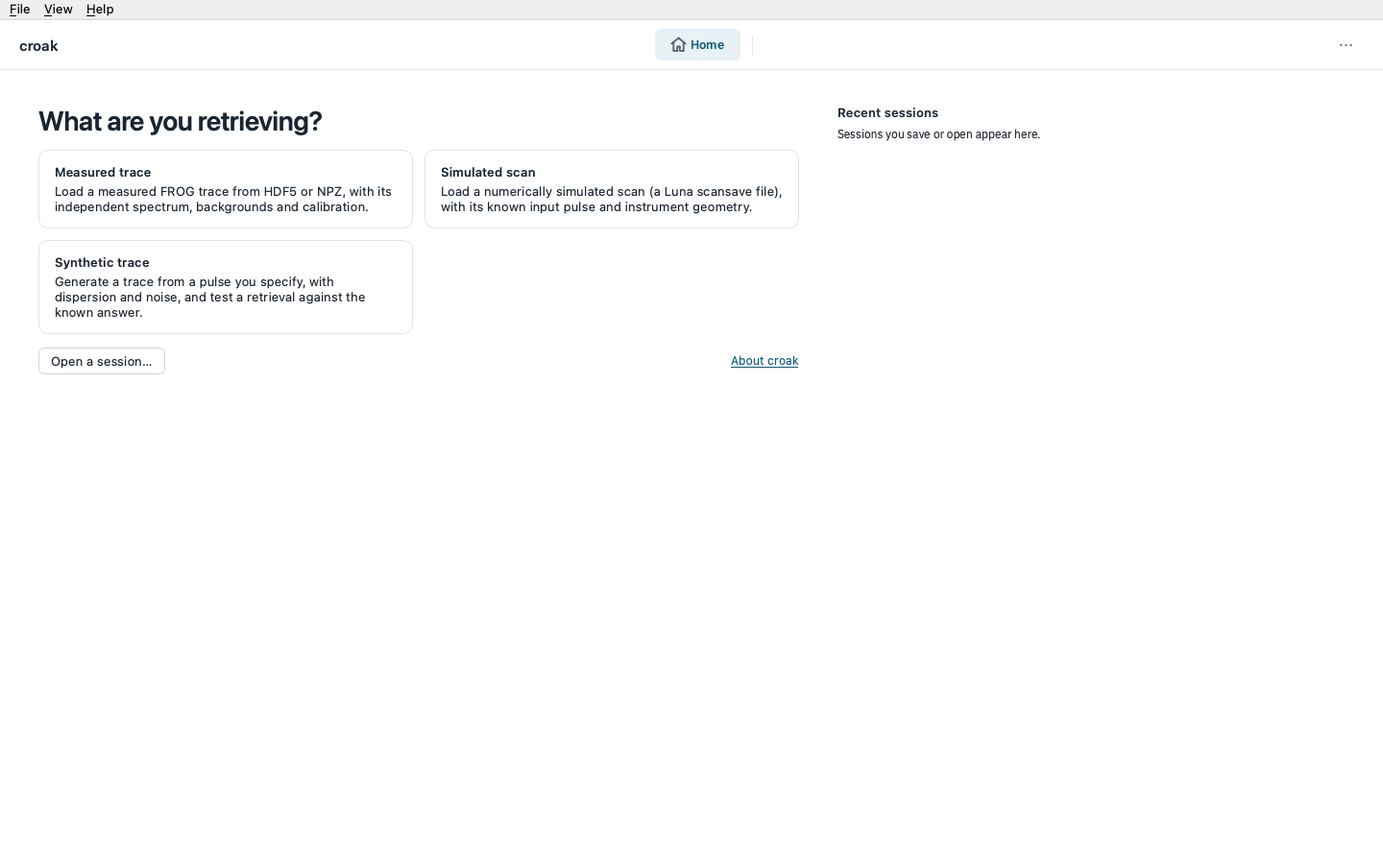
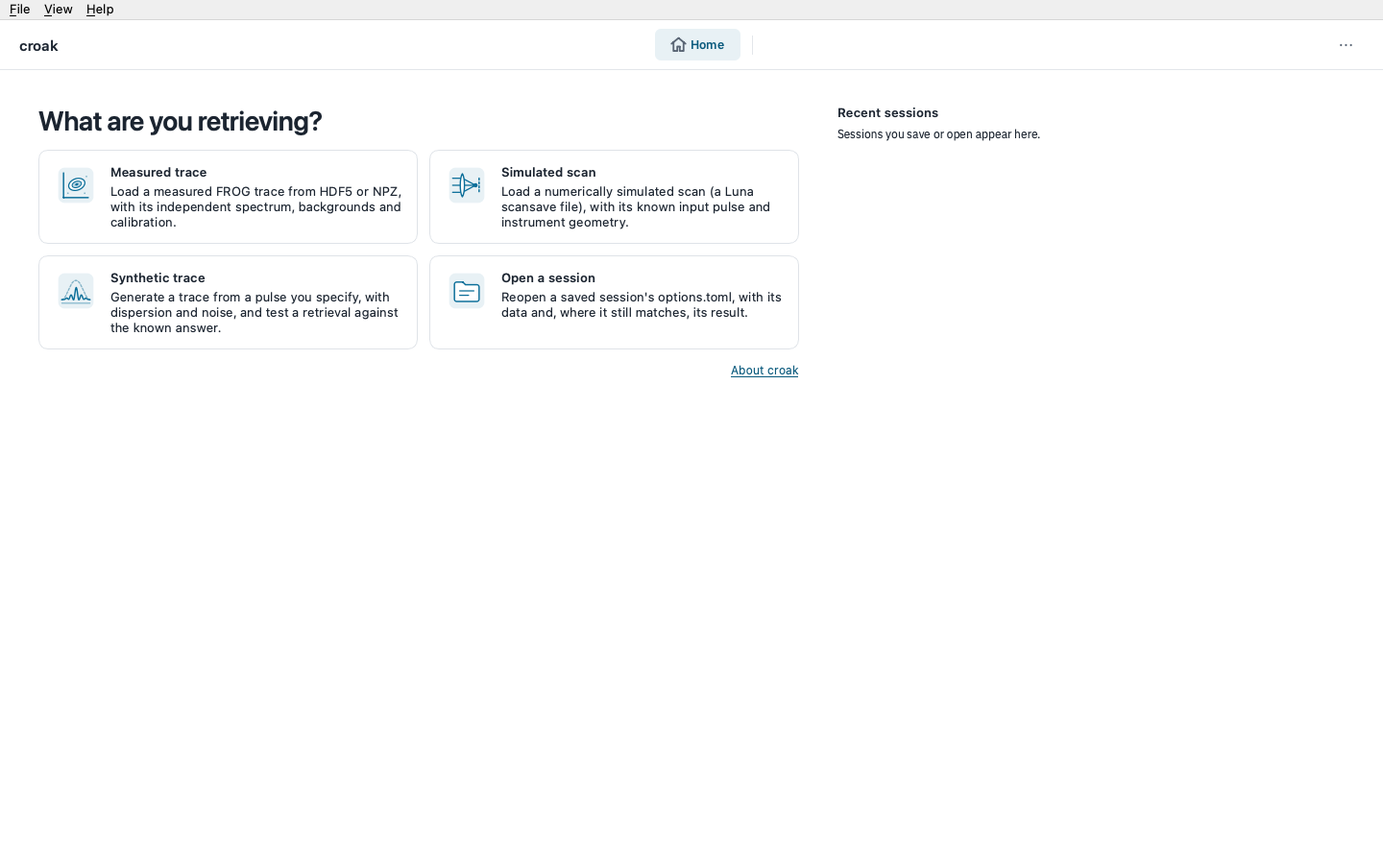
Document the display settings, Retrieve's numbers and Home's tiles

Changed region(s): [[0.0312, 0.1867, 0.5625, 0.4356], [0.3125, 0.3111, 0.5625, 0.3733], [0.5312, 0.4044, 0.5938, 0.4356]]

diff --git a/tools/make_docs_images.py b/tools/make_docs_images.py
@@ -183,8 +183,8 @@ def make_gui_screenshots(folder: Path) -> list[Path]:
     Follows the route a user takes: Home, a synthetic trace (Continue generates
     it and opens Check, Continue again prepares it), then Retrieve. A
     synthetic session is used deliberately — it carries the known ground truth,
-    so the read-out's ``truth`` row is populated and the plots gain the truth
-    overlay.
+    so the truth errors beneath the plots are filled and the plots gain the
+    truth overlay.
     """
     from PySide6.QtWidgets import QApplication
 

diff --git a/docs/howto/gui.md b/docs/howto/gui.md
@@ -47,8 +47,8 @@ rest of the window to its plots; when the window is narrower than 1000 pixels
 the plots move below the settings instead. The
 settings are grouped in sections that fold, and Retrieve's
 advanced sections start folded, so a laptop screen shows the settings you use
-most without scrolling. The numeric read-out beneath Retrieve's plots folds away
-with a click on its header, and returns the height to the plots.
+most without scrolling. Beneath Retrieve's plots, the run's numbers and its
+convergence share one short strip.
 
 Plot text stays at the same size whatever the window size. Exported figures
 (see [Figures for publication](#figures-for-publication)) and the files a
@@ -71,8 +71,8 @@ the macOS menu bar. Two platform details remain:
 
 ## Home
 
-Home is where a session starts. It offers three tiles, one for each kind of
-data:
+Home is where a session starts. Its first three tiles each start a session
+from one kind of data:
 
 - **Measured trace** — load a FROG measurement from HDF5 or NPZ, with its
   independent spectrum, backgrounds and calibration curves.
@@ -81,8 +81,8 @@ data:
 - **Synthetic trace** — generate a trace from a pulse you specify, with
   dispersion and noise, and test a retrieval against the known answer.
 
-Beneath the tiles, **Open a session…** reopens a saved session from its
-`options.toml` (see [Sessions](#sessions)), and **About croak** opens the About
+The fourth tile, **Open a session**, reopens a saved session from its
+`options.toml` (see [Sessions](#sessions)). Beneath the tiles, **About croak** opens the About
 page: the version, links to this manual, the source on GitHub, the package on
 PyPI and the issue tracker, the authors, and the copyright and licences. The **Recent sessions** list on the
 right holds the last six sessions you saved or opened, named by their folder,
@@ -104,7 +104,8 @@ The top bar carries, from left to right:
   its stage buttons are still there, so you can go back to it;
 - the five stage buttons **Data · Check · Prepare · Retrieve · Analyse**. A
   stage that cannot be opened yet is greyed out, and its tooltip says why;
-- the **primary action**, the one button that moves the session on;
+- the **primary action**, the button that moves the session on, and on
+  Retrieve, once a retrieval is done, **Retrieve again** beside it;
 - the **⋯** menu: **Save session…**, **Open a session…**, **Export this page as
   a figure…**, **Show the settings (options.toml)**, **Show as a Python
   script**, **Help for this stage** and **About croak**.
@@ -114,8 +115,9 @@ session… and Export this page as a figure…, with the platform's Open and Sav
 shortcuts and Ctrl+E, ⌘E on macOS), **View** (the settings and the script) and
 **Help** (Help for this stage, F1 on Windows and Linux, ⌘? on macOS, and About
 croak, which macOS moves to the application menu). Passing notices, such as "Saved …" or why a stage cannot open,
-appear in a status bar at the foot of the window, which hides again when there
-is nothing to say.
+appear at the foot of the window, which also holds the
+[display settings](#display-spectral-axis-and-log-range) while a session is
+open, and hides on Home when there is nothing to say.
 
 ### The route
 
@@ -145,7 +147,7 @@ The primary action follows the stage:
 | Data | **Continue**: load or generate the trace and go on to Check |
 | Check | **Continue** to Prepare |
 | Prepare | **Continue** to Retrieve |
-| Retrieve | **Retrieve**, **Stop** while it runs, then **Retrieve again** |
+| Retrieve | **Retrieve**, **Stop** while it runs, then **Analyse**, with **Retrieve again** beside it |
 | Analyse | **Save** (the session); on the Uncertainty page **Estimate**, or **Stop** while it runs |
 
 The action is greyed out until it can be done: Continue on Data, for example,
@@ -172,7 +174,11 @@ Every plot shares the same handling:
 - **Hover** to show a crosshair and a read-out: the position, and the value
   of the map or of each curve under the pointer.
 - **Scroll** to zoom about the pointer, and **drag** to pan.
-- **Double-click** to return to the view the data were first shown with.
+- **Double-click** to return to the view the data were first shown with, and
+  a map to its colour scale.
+- **Drag a colour bar's ends** (or the bar itself) to change that map's colour
+  scale on its own, for example to look further down a logarithmic trace. A
+  signed map keeps its white at zero wherever the scale is dragged.
 
 Plots that share an axis are linked, so zooming one zooms its partners: the
 trace maps on Prepare, and the measured and retrieved traces on Retrieve and
@@ -181,6 +187,33 @@ so no detail is lost where the samples are densest. A logarithmic (dB) trace
 shows the positive part of the signal; negative samples, left by background
 subtraction, show on the linear maps, which run from white to viridis for
 positive values and from white to red for negative ones.
+
+### Display: spectral axis and log range
+
+Two settings at the foot of the window hold for every plot on every page. They
+are remembered between launches and stay until you change them or click
+**Reset**:
+
+- **Spectral axis**: **As computed** keeps each plot on the axis its data were
+  computed on — wavelength for a loaded trace and the generator's previews,
+  frequency for the prepared trace and the retrieval. **Wavelength** or
+  **Frequency** draws every spectral plot, maps and curves alike, against that
+  axis, with ν = c/λ. An intensity is a density per unit of its axis, so it
+  takes the Jacobian too, $I_\nu = I_\lambda\,\lambda^2/c$ and
+  $I_\lambda = I_\nu\,\nu^2/c$: a broad spectrum changes shape, not only
+  position. Phases and filter factors only move. Each plot keeps its peak, and a
+  map is resampled onto an even grid on the new axis, for drawing only
+  ({mod}`croak.plotting.display`).
+- **Log range**: how far below its peak every logarithmic (dB) map reaches,
+  from 5 to 120 dB (30 dB by default). A dragged colour bar overrides it for one
+  map until that map is next drawn.
+
+Exported figures follow both: a plot or page exported from the screen is drawn
+as shown, and croak's own figures of a result (Analyse's Overview, Traces, Pulse
+and Diagnostics pages, and the `retrieval.pdf` a saved session holds) take the
+log range and draw their spectrum on the chosen axis. Their trace maps are
+always against frequency, so with the display on wavelength Analyse's pages
+are exported as they are shown instead.
 
 **Right-click** a plot for its own menu: **Export this plot as a figure…**,
 **Save as an image…** (a PNG of the plot as it is on screen) and **Copy as an
@@ -280,10 +313,8 @@ model; the [marginal guide](marginal_checks.md) states its assumptions. The page
 overlays the predicted marginal, marks the predicted vs measured **centroid**,
 reports the **width-bracket** check, and exposes the spectral **trust region**
 (defaults to 190–1000 nm for a measured trace, or the full loaded range for the
-noise-free simulated/synthetic traces), a **frequency/wavelength** axis toggle
-(default frequency, the space the retrieval works in; the wavelength view
-applies the $1/\lambda^2$ density Jacobian, which shifts a broad marginal towards
-the blue), a **log/linear** marginal toggle (default linear, peak-normalised)
+noise-free simulated/synthetic traces), a **log/linear** marginal toggle (default
+linear, peak-normalised)
 and the **3rd-order** `(λ/µm)^exp` efficiency correction. Its **Auto** button
 picks the exponent whose corrected-marginal centroid matches the prediction
 ({func}`~croak.marginal_checks.auto_third_order_exponent`). The **SHG marginal
@@ -294,6 +325,12 @@ an SHG trace with an independent spectrum, and previews the snap onto the
 prediction live (the correction itself is applied in Prepare). All three kinds
 of session pass through this stage, except a raw simulated scan; see
 [Marginal consistency checks](marginal_checks.md).
+
+The marginals are drawn against frequency, the space the retrieval works in,
+unless the [display](#display-spectral-axis-and-log-range) asks for wavelength.
+The wavelength view applies the $1/\lambda^2$ density Jacobian to the predicted
+marginal, which shifts a broad marginal towards the blue even when its
+frequency centroid matches.
 
 ### Prepare
 
@@ -328,7 +365,7 @@ of panels are on [Analyse](#analyse).
 
 The form's sections, in order, are the solver and its mode, the forward-model
 sections (*Dispersive propagation*, *Geometrical smearing*), the advanced
-sections, *Post-filter (applied to result)* and *Display*. The advanced sections —
+sections and *Post-filter (applied to result)*. The advanced sections —
 *Chromatic focal mixture (advanced)*, *Extra fit parameters*, *Regularisation*
 and *Global search (cma-es)* — start folded, and whether each is open is
 remembered between launches. Below them are **Reset** (the default retrieval
@@ -336,24 +373,18 @@ settings) and **Retarget to new dataset…** (see [Sessions](#sessions)). A run
 starts and stops from the top bar's **Retrieve** and **Stop**, and **Save
 session…** saves it.
 
-The **Display** section's **Spectrum axis** draws the spectrum panel against
-**frequency** (PHz, the default — the space the retrieval works in) or
-**wavelength** (nm, the spectrometer's axis, carrying the $1/\lambda^2$ density
-Jacobian); both are unit-peak densities in their own variable, the choice is
-remembered, and exported figures follow it.
-
 By default **Live full-plot preview** redraws the overview as the run converges.
 Previews arrive at most four times a second, and less often on a machine where
 presenting one is slow: the GUI measures what each preview costs and stretches
 the interval so that presenting stays below about a quarter of the wall-clock
-time, so the preview never starves the solver. Until the first preview arrives,
-the convergence curve is shown instead, redrawn at up to ten frames a second
-however fast the solver iterates. Later snapshots update the existing curves and
+time, so the preview never starves the solver. The convergence curve beside the
+numbers follows the run, redrawn at up to ten frames a second however fast the
+solver iterates. Later snapshots update the existing curves and
 images in place, so nothing shifts between frames. Pressing **Stop** halts the
 run at that point and leaves the latest result on screen as a (non-converged)
 result you can inspect, save or post-filter. Untick **Live full-plot preview** to
-fall back to the cheaper trace-error-vs-iteration curve (the full overview is
-still drawn once the run finishes). Every solver supports the preview, including
+leave the overview until the run finishes, with only the convergence curve
+moving. Every solver supports the preview, including
 `copra`/`copra-jax` and the COPRA warm-up of `warm-lbfgs`, which is 300
 iterations by default. `warm-lbfgs` runs **both** stages on one convergence
 curve; the convergence panel on Analyse's Diagnostics page marks the handover
@@ -377,28 +408,21 @@ retrieved and transform-limited pulses. When its complex field is available,
 dotted truth-phase lines appear in both time and spectrum panels and are named
 in their legends. The truth arrays are also written into the saved `result.h5`.
 
-Beneath the plots sits a **numeric read-out** that updates as the run
-converges; click its header to fold it away and give the plots its height
-(remembered between launches). Its *Pulse parameters* table has one row per
-curve in the figure, labelled to match the legends — `R` (retrieved), `M` (the
-independent measured spectrum), `TL` (transform-limited) and `truth` — and four
-columns: peak wavelength, spectral FWHM, temporal FWHM and peak power. Cells
-that are not defined show an en dash rather than a misleading number: the
-measured spectrum carries no phase, so it has no temporal envelope; the
-transform-limited pulse is the retrieved $|E(\omega)|$ with the phase removed,
-so its spectrum *is* the retrieved one and is reported once, on the `R` row. The
-peak-power column needs a measured **pulse energy** (set it on the measured
-loader or on the Dispersion page) and shares one SI prefix, shown in its header,
-so the values compare at a glance.
+Beneath the plots, the run's **numbers** sit beside its **convergence**, the
+error against iteration on a log scale (the whole history once the run ends,
+with the hand-overs between a solver's stages marked). The first row tracks the
+run and its pulse: `Iteration`, `Error R` and `Elapsed`, then the retrieved
+spectrum's peak wavelength `λ peak` and the pulse's `FWHM`. The second row shows
+the forward model's extra parameters, `τ₀`, `Thickness` and `Smearing`, each
+named **fit** or **fixed** so it is clear whether the retriever was free to move
+it (a smearing width also carries its factor on the nominal kernel). The run
+counters tick every iteration; the peak wavelength and FWHM refresh with the live
+full-plot preview, so with that preview turned off they stay blank until the run
+finishes. A number that is not defined shows an en dash. The transform-limited
+and known FWHMs, and the peak powers once a pulse energy is set, are in the
+retrieved pulse's legend.
 
-Below the table, `Iteration`, `Elapsed` and `Error R` track the run itself, and
-`τ₀`, `Thickness` and `Smearing` show the forward model's extra parameters, each
-marked **(fit)** or **(fixed)** so it is clear whether the retriever was free to
-move it. The three run counters tick every iteration; the table refreshes with
-the live full-plot preview, so with that preview turned off it stays blank until
-the run finishes.
-
-The last line, `ε(Iₜ)`, `ε(I𝜔)` and `ε(E𝜔)`, appears when the trace came from a
+The last three, `ε(Iₜ)`, `ε(I𝜔)` and `ε(E𝜔)`, are filled when the trace came from a
 synthetic or simulated session and so has a **known** pulse: the temporal
 intensity, spectral intensity and complex-field errors against it
 ({mod}`croak.truth_metrics`). They answer a different question from the

diff --git a/docs/developer_guide/gui_design.md b/docs/developer_guide/gui_design.md
@@ -36,11 +36,18 @@ applications read alike.
   focus, and in the page's help dialog.
 - **Say it where it happens.** Whether a stage can go on is on its ready line,
   at the foot of the form; a passing notice (saved, copied, why a stage is
-  closed) goes to the status bar, which hides when it is empty. Modal dialogs are
+  closed) goes to the foot of the window, which hides on Home when it is empty.
+  Modal dialogs are
   for choosing files and for confirming that work will be discarded.
-- **Remember arrangement, not results.** The window's size, folded sections,
-  the read-out strip and display choices persist between launches; computed
-  results persist only in saved sessions.
+- **Remember arrangement, not results.** The window's size, folded sections
+  and the display settings persist between launches; computed results persist
+  only in saved sessions.
+- **One display for every plot.** The spectral axis and the logarithmic range
+  are the viewer's settings, at the foot of the window (`display.DisplayBar`),
+  not a control on each page. Every `ViewPanel` draws its view through
+  `croak.plotting.display.displayed` and redraws when they change; a page that
+  computes a view differently on each axis (Check's marginals) builds it on the
+  display's axis, and the conversion then leaves it alone.
 
 ## Colour
 
@@ -107,10 +114,12 @@ and `error`, which `theme.set_flag` sets and re-applies.
   do.
 - **Plots** are white, closed boxes (top and right axes drawn without numbers),
   with a crosshair and readout on hover, mouse zoom and pan, and a double-click
-  back to the starting view. Plots that share an axis are linked. A plot is at
-  least 140×100 px.
-- **Strips** beneath the plots that have a natural height (Retrieve's numeric
-  read-out) fold away and hand their height back to the plots.
+  back to the starting view. A map's colour bar can be dragged, for that map
+  alone. Plots that share an axis are linked. A log axis is labelled at decades
+  only. A plot is at least 140×100 px.
+- **Numbers** are a `sheet.DerivedGrid`: a small grey name over a large value,
+  as solprop's design numbers. Retrieve's sit in a strip of fixed height beneath
+  its plots, beside the run's convergence.
 - **Analyse** has a 170 px rail of pages on the left.
 - **Export**: every plot has a right-click menu (figure, image, copy), and every
   page a figure (`PageBase.figure`), saved by Ctrl+E. Figures are drawn from the
@@ -123,12 +132,12 @@ and `error`, which `theme.set_flag` sets and re-applies.
 
 | Place | Page | Primary action | Plots |
 |---|---|---|---|
-| Home | tiles, Open a session…, About croak, recent sessions | none | none |
+| Home | four tiles (three entries, Open a session), About croak, recent sessions | none | none |
 | About | version, links (manual, GitHub, PyPI, issues), authors, copyright | none | none |
 | Data | Load the trace / Load the scan / Generate the trace | Continue | the loaded trace; for a scan its maps and marginals; for a synthetic pulse the pulse, spectrum, spectrogram and trace |
 | Check | — | Continue | the trace and the marginal comparison |
 | Prepare | — | Continue | measured, filtered and regridded traces in dB and linear (2×3) |
-| Retrieve | — | Retrieve / Stop / Retrieve again | the live overview, or convergence before the first preview; the numeric read-out |
+| Retrieve | — | Retrieve / Stop / Analyse, with Retrieve again beside it | the live overview; the run's numbers and its convergence |
 | Analyse | Overview, Traces, Pulse, Diagnostics | Save | the retrieval's panels, two by two |
 | Analyse | Dispersion | Save | dispersed spectrum, pulse, applied phase, spectrogram |
 | Analyse | Uncertainty | Estimate / Stop | FWHM distribution (or FWHM and error against thickness), the temporal band |
@@ -140,10 +149,10 @@ These are known gaps, kept out of the redesign to keep it reviewable:
 - **A dark theme.** The style sheet is built from one `Palette`, so a dark one
   would be a second instance, but the plots' white background and colour maps
   would need choosing too.
-- **The unused sheet parts.** `sheet.DerivedGrid` (numbers derived from the
-  settings) and `ProgressStrip` (state, bar and figures over the plots while
-  work runs) are built but no stage uses them yet; a run's progress is on the
-  ready line. `AdviceBox` so far carries one piece of advice: Prepare's, when
+- **The unused sheet parts.** `sheet.ProgressStrip` (state, bar and figures
+  over the plots while work runs) is built but no stage uses it yet; a run's
+  progress is on the ready line and Retrieve's numbers. `DerivedGrid` holds
+  only Retrieve's numbers so far. `AdviceBox` so far carries one piece of advice: Prepare's, when
   the λ grid clips the trace.
 - **The stage pages' interface.** The stage modules still build through
   `base.Stage`, which keeps the calls they were written against for the old

diff --git a/docs/developer_guide/gui_sessions.md b/docs/developer_guide/gui_sessions.md
@@ -45,8 +45,8 @@ tested without a window.
 | Module | Holds |
 |---|---|
 | `window` | `MainWindow`: top bar, stage stack, drawer, menus, and the session actions (new, open, replay, retarget, save) |
-| `workflow` | the route as pure rules: `Stage`, `Progress`, `blocked_reason`, `next_stage`, `primary_action`, `remember_recent` |
-| `home` | Home: the entry tiles, Open a session…, About croak and the recent sessions |
+| `workflow` | the route as pure rules: `Stage`, `Progress`, `blocked_reason`, `next_stage`, `primary_action`, `secondary_action`, `remember_recent` |
+| `home` | Home: the entry tiles and Open a session (each with its drawing from `assets/tiles`), About croak and the recent sessions |
 | `about` | About: the version, links, authors and copyright, from the package metadata |
 | `pages` | `default_pages` (the page factory), `DataPage` (the entry's loader, and a reopened session's restore) and `AnalysePage` (the rail) |
 | `stage` | `PageBase`, the hooks the window reads, and `StagePage`, a page that is a sheet |
@@ -54,11 +54,12 @@ tested without a window.
 | `sheet` | the sheet's parts: `Form`, `Section`, `ReadyLine`, `Segments`, `AdviceBox`, `DerivedGrid`, `ProgressStrip` and `Sheet` itself |
 | `stage_load`, `stage_simulated`, `stage_synthetic` | the three loaders (Data) |
 | `stage_marginal_check`, `stage_preprocess`, `stage_retrieve`, `stage_dispersion`, `stage_uncertainty` | the other stage pages |
-| `view_panel` | `ViewPanel`, a titled plot of one screen view with its right-click menu, and the figure export of a plot or a page (`page_figure`, `export_figure`) |
+| `view_panel` | `ViewPanel`, a titled plot of one screen view, drawn as the display settings show it, with its right-click menu, and the figure export of a plot or a page (`page_figure`, `export_figure`) |
+| `display` | the display settings every plot follows (spectral axis, logarithmic range): `current`, `set_display`, the `hub` that tells the plots, and `DisplayBar` at the foot of the window |
 | `retrieval_views` | the retrieval's panels on screen (`RetrievalPanels`) and Analyse's result pages (`ResultPage`, with Export and Pop out) |
 | `plots` | the pyqtgraph views: `Plot`, `MapPlot`, `LinePlot`, the colour maps and the hover readers |
 | `theme` | the palette, type scale, style sheet and the role helpers (`label`, `button`, `frame`, `set_flag`) |
-| `controls`, `widgets`, `readout`, `mirror_stack` | form builders, slider/spin-box composites, Retrieve's numeric read-out, Dispersion's mirror stack |
+| `controls`, `widgets`, `readout`, `mirror_stack` | form builders, slider/spin-box composites, Retrieve's numbers, Dispersion's mirror stack |
 | `help` | per-stage help: the dialog and the tooltips, from one `HELP` list |
 | `state` | `WizardState`: the parameters and pipeline outputs, with cascading invalidation |
 | `worker` | the `QThread` workers for preprocessing, retrieval and uncertainty |
@@ -142,8 +143,9 @@ a quarter of the wall-clock time on a slow machine.
 ## Remembered preferences
 
 `croak.gui.settings` keeps the window geometry, each folding section's state
-(sections with a `settings_key`), the read-out strip, Retrieve's spectrum axis
-and the recent sessions in a `QSettings` INI store, opening a short-lived store
+(sections with a `settings_key`), the display settings (`display/spectral_axis`
+and `display/db_range`, read and written by `croak.gui.display`) and the recent
+sessions in a `QSettings` INI store, opening a short-lived store
 for every read or write. It always names the organisation and application
 explicitly, which is what lets the test suite redirect the store to a per-test
 directory with `QSettings.setPath` (`tests/conftest.py`).

diff --git a/docs/getting_started/gui.md b/docs/getting_started/gui.md
@@ -59,7 +59,7 @@ The window opens maximised and is laid out for displays of 1366×768 and up;
 un-maximised, it returns to the size you last left it. It opens on **Home**:
 
 ```{image} ../_static/gui_home.png
-:alt: Home — three tiles to start from a measured trace, a simulated scan or a synthetic trace, an "Open a session…" button, and the list of recent sessions on the right.
+:alt: Home — four tiles, each with a small drawing: start from a measured trace, a simulated scan or a synthetic trace, or open a saved session; the list of recent sessions is on the right.
 :width: 95%
 :align: center
 ```
@@ -87,10 +87,12 @@ Settings are in a narrow column on the left of each page and the plots fill the
 rest; hover over a control for help with that setting, and over a plot to read
 its values. Scroll to zoom, drag to pan, and double-click to return to the
 starting view. Right-click a plot, or press Ctrl+E (⌘E) for the whole page, to
-save it as a figure for publication: a vector PDF or SVG drawn by matplotlib.
+save it as a figure for publication: a vector PDF or SVG drawn by matplotlib. At the foot of the window, **Spectral axis** draws every spectral plot
+against wavelength or frequency, and **Log range** sets how far down every
+logarithmic map reaches; drag a map's colour bar to adjust that map alone.
 
 ```{image} ../_static/gui_retrieve.png
-:alt: Retrieve after a run — the solver settings on the left, the measured and retrieved traces above the retrieved pulse and spectrum on the right, and the numeric read-out beneath.
+:alt: Retrieve after a run — the solver settings on the left; on the right the measured and retrieved traces above the retrieved pulse and spectrum, with the run's numbers and its convergence beneath; Analyse and Retrieve again in the top bar, and the display settings at the foot of the window.
 :width: 95%
 :align: center
 ```

diff --git a/changelog.d/gui-display-settings.added.md b/changelog.d/gui-display-settings.added.md
@@ -1,0 +1,1 @@
+Two GUI display settings, at the foot of the window, hold for every plot and are remembered between launches: **Spectral axis** draws every spectral plot, maps and curves, against wavelength or frequency, with the density Jacobian, or keeps each on the axis it was computed on; **Log range** sets how far below its peak every logarithmic map reaches (5–120 dB). A map's colour bar can also be dragged to change that map's scale alone. Retrieve's own Spectrum axis control and Check's marginal axis control give way to them. `croak.plotting.display` does the conversion from a script.

diff --git a/README.md b/README.md
@@ -56,7 +56,7 @@ methods and the validation are described in two papers in preparation (see
 the [capabilities overview](https://croak.readthedocs.io/en/latest/reference/features.html)
 lists everything the package does.
 
-![The wizard after a retrieval: measured and retrieved traces, residuals, the retrieved pulse and spectrum, and a numeric read-out.](docs/_static/gui_retrieve.png)
+![The GUI after a retrieval: measured and retrieved traces, the retrieved pulse and spectrum, and the run's numbers beside its convergence.](docs/_static/gui_retrieve.png)
 
 ## Install
 

diff --git a/changelog.d/gui-retrieve-strip.added.md b/changelog.d/gui-retrieve-strip.added.md
@@ -1,0 +1,1 @@
+On Retrieve, once a retrieval is done, the top bar's primary action is **Analyse**, with **Retrieve again** beside it. Beneath the plots the run's numbers (iteration, error, elapsed time, the retrieved peak wavelength and FWHM, the forward-model extras and the truth errors) are shown large, beside the convergence curve, which follows the whole run; the pulse-parameter table is gone. Home's tiles carry drawings, and **Open a session** is a tile of its own.

diff --git a/changelog.d/gui-signed-map-noise.fixed.md b/changelog.d/gui-signed-map-noise.fixed.md
@@ -1,0 +1,1 @@
+A signed linear map in the GUI no longer paints its whole zero background red when its only negative values are rounding noise (Prepare's filtered and regridded traces), and the synthetic generator's spectrum preview is now a wavelength density, as its spectrogram already was. Log axes are labelled at decades only, so a short convergence plot no longer piles its labels up.

diff --git a/docs/reference/api/plotting.md b/docs/reference/api/plotting.md
@@ -15,3 +15,10 @@ and 4-panel composites. See [Post-processing and plotting](../../howto/postproce
 .. automodule:: croak.plotting.export
    :members:
 ```
+
+## The display's spectral axis and range
+
+```{eval-rst}
+.. automodule:: croak.plotting.display
+   :members:
+```
